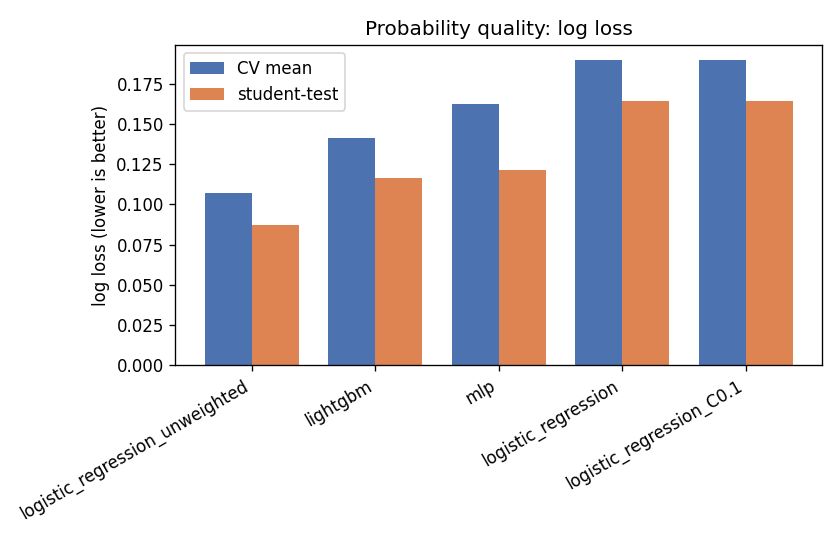
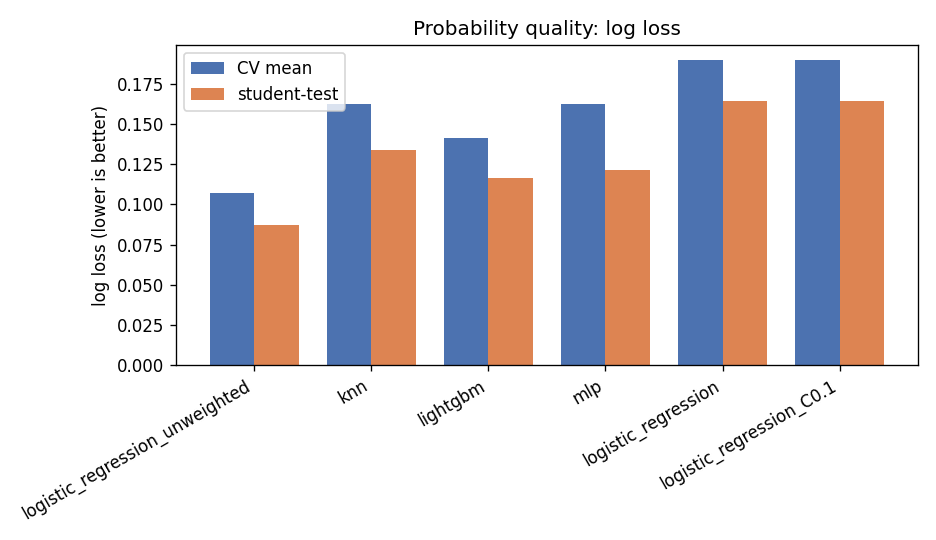
Add KNN results and update model comparison (Milestone 3)
- KNN (k=21, distance weights, 4:1 negative subsampling, 50k training rows) run
  through the shared harness: CV macro F1 0.876 +/- 0.018, CV Top-1 0.823,
  student macro F1 0.884, 61 ms per 1k rows
- fold-level and student per-trip results
- docs/models/knn.md results section filled from the logged metrics
- model_comparison.csv and figures regenerated

diff --git a/docs/models/knn.md b/docs/models/knn.md
@@ -66,14 +66,50 @@ All hyperparameters are centralized in `KNN_CONFIG` in `src/pathsnap/models/trai
 
 ---
 
-## 5. Experimental Results (Held Blank)
+## 5. Experimental Results
 
-*To be populated by the shared model evaluation harness across GroupKFold cross-validation on the 80 training trips.*
+Run: `python -m pathsnap.models.train_knn` (default config: k = 21, distance weights, Euclidean, 4:1 negative subsampling capped at
+50,000 training rows). Source: `outputs/results/experiments.csv` (model `knn`), `outputs/results/folds/knn_folds.csv`,
+`outputs/results/student/knn_per_trip.csv`. PR-AUC and ROC-AUC are not computed by the shared harness and are therefore not reported.
 
-| Metric | Fold 1 | Fold 2 | Fold 3 | Fold 4 | Fold 5 | Mean ± Std |
+### Grouped 5-fold CV (validation folds, 16 trips each)
+
+| Metric | Fold 0 | Fold 1 | Fold 2 | Fold 3 | Fold 4 | Mean ± Std |
 |---|---|---|---|---|---|---|
-| Log-Loss | | | | | | |
-| PR-AUC | | | | | | |
-| ROC-AUC | | | | | | |
-| Top-1 Acc | | | | | | |
-| Inference Latency | | | | | | |
+| Macro F1 | 0.8855 | 0.8736 | 0.8976 | 0.8750 | 0.8497 | 0.8763 ± 0.0177 |
+| Log loss | 0.1603 | 0.1503 | 0.1358 | 0.1465 | 0.2193 | 0.1624 ± 0.0330 |
+| Top-1 (true arc among candidates) | 0.8291 | 0.8034 | 0.8780 | 0.8129 | 0.7905 | 0.8228 ± 0.0339 |
+| Top-1 (all points) | 0.8137 | 0.7785 | 0.5815 | 0.8114 | 0.7295 | 0.7429 ± 0.0964 |
+| Route continuity | 0.9253 | 0.8961 | 0.9078 | 0.8474 | 0.9119 | 0.8977 ± 0.0300 |
+| Precision | 0.7426 | 0.7213 | 0.7483 | 0.7225 | 0.6481 | 0.7166 ± 0.0401 |
+| Recall | 0.8651 | 0.8335 | 0.9009 | 0.8360 | 0.8672 | 0.8605 ± 0.0275 |
+| Inference (ms / 1k rows) | 60.8 | 72.9 | 58.1 | 60.4 | 53.7 | 61.2 ± 7.1 |
+| Fit time (s) | 14.9 | 14.0 | 13.2 | 12.4 | 12.8 | 13.4 ± 1.0 |
+
+### Training vs CV vs student-test
+
+| Metric | Fold-train | CV mean | Full-train | Student-test |
+|---|---|---|---|---|
+| macro_f1 | 0.8919 | 0.8763 | 0.8905 | 0.8844 |
+| top1_when_candidate | 0.8554 | 0.8228 | 0.8520 | 0.8451 |
+| top1_all_points | 0.7606 | 0.7429 | 0.7567 | 0.8439 |
+| route_continuity | 0.9081 | 0.8977 | 0.9079 | 0.9044 |
+| log_loss | 0.1333 | 0.1624 | 0.1366 | 0.1338 |
+| precision | 0.7375 | 0.7166 | 0.7362 | 0.7205 |
+| recall | 0.8956 | 0.8605 | 0.8909 | 0.8829 |
+
+Student-test confusion matrix `[[TN, FP], [FN, TP]]` = `[[174366, 6553], [2240, 16893]]`.
+
+### Interpretation
+
+* **Generalisation gap:** fold-train vs CV macro F1 0.892 vs 0.876 and Top-1
+  0.855 vs 0.823: mild overfitting. Part of the training score is
+  inflated because ~50,000 of the scored training rows are the stored neighbours themselves (distance weighting gives them
+  their own label).
+* **Ranking:** CV Top-1 0.823 is the lowest of the logged models (others 0.840–0.843), although row-level
+  macro F1 (0.876) is high: the 4:1 subsampling shifts the threshold balance, but the neighbour vote ranks
+  candidates of the same GPS point less consistently. Route continuity is also the lowest (0.898).
+* **Cost:** inference 61.3 ms per 1,000 rows (≈ 30–60× the other models); the largest trip
+  (00000084, 92,587 rows) takes 6.4 s. Training uses only
+  50,000 of ~1.4 M rows (≈ 3.5 %).
+* Weakest fold: fold 4 (contains trip 00000033), as for every other model.
